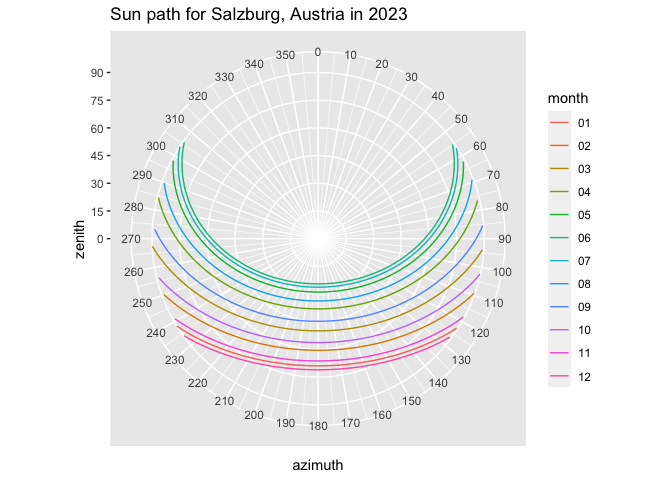
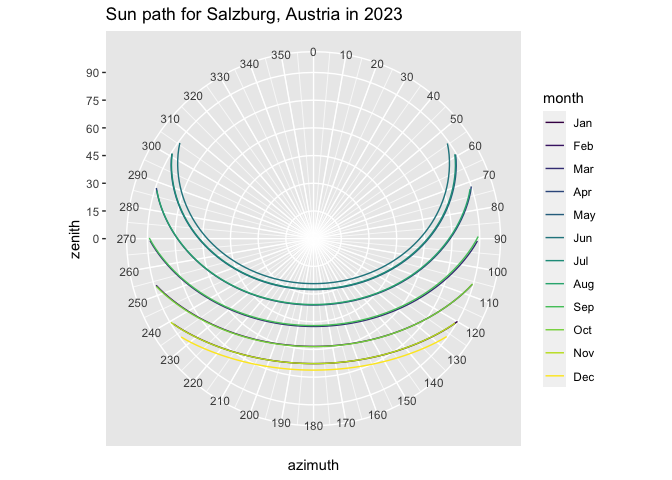
Add basic analemma lines

diff --git a/sunpath.md b/sunpath.md
@@ -1,4 +1,4 @@
-Plotting a sun-path diagram using data from solarpos-cli
+Plotting a sun-path diagram in R using data from solarpos-cli
 ================
 
 First, run [solarpos-cli](https://github.com/KlausBrunner/solarpos-cli)
@@ -17,43 +17,64 @@ column. This will come in handy for the diagram.
 
 ``` r
 library(tidyverse)
+library(lubridate, warn.conflicts = FALSE)
+```
 
+    ## Loading required package: timechange
+
+``` r
 sunpath <- read_csv("/tmp/sunpositions.csv", 
                     col_names=c("daytime", "azimuth", "zenith"), 
                     show_col_types = FALSE) |> 
-  subset(subset = as.Date(daytime) %in% seq(as.Date("2023-01-15"), as.Date("2023-12-15"), "months")) |> 
+  subset(subset = date(daytime) %in% seq(date("2023-01-21"), date("2023-12-21"), "months")) |> 
   filter(zenith <= 90.0) |>
-  mutate(month = format(daytime, "%m"))
+  mutate(month = month(daytime, label=TRUE))
 
 sunpath
 ```
 
     ## # A tibble: 875 × 4
     ##    daytime             azimuth zenith month
-    ##    <dttm>                <dbl>  <dbl> <chr>
-    ##  1 2023-01-15 07:00:00    123.   89.3 01   
-    ##  2 2023-01-15 07:10:00    125.   88.0 01   
-    ##  3 2023-01-15 07:20:00    127.   86.7 01   
-    ##  4 2023-01-15 07:30:00    129.   85.5 01   
-    ##  5 2023-01-15 07:40:00    130.   84.2 01   
-    ##  6 2023-01-15 07:50:00    132.   83.0 01   
-    ##  7 2023-01-15 08:00:00    134.   81.7 01   
-    ##  8 2023-01-15 08:10:00    136.   80.6 01   
-    ##  9 2023-01-15 08:20:00    139.   79.5 01   
-    ## 10 2023-01-15 08:30:00    141.   78.4 01   
+    ##    <dttm>                <dbl>  <dbl> <ord>
+    ##  1 2023-01-21 06:50:00    120.   89.9 Jan  
+    ##  2 2023-01-21 07:00:00    122.   88.7 Jan  
+    ##  3 2023-01-21 07:10:00    124.   87.4 Jan  
+    ##  4 2023-01-21 07:20:00    126.   86.0 Jan  
+    ##  5 2023-01-21 07:30:00    127.   84.7 Jan  
+    ##  6 2023-01-21 07:40:00    129.   83.4 Jan  
+    ##  7 2023-01-21 07:50:00    131.   82.2 Jan  
+    ##  8 2023-01-21 08:00:00    133.   81.0 Jan  
+    ##  9 2023-01-21 08:10:00    135.   79.8 Jan  
+    ## 10 2023-01-21 08:20:00    138.   78.6 Jan  
     ## # … with 865 more rows
 
 Now plot a simple sun path diagram.
 
 ``` r
-spplot <- ggplot(sunpath, aes(x = azimuth, y = zenith, color = month)) + 
-  geom_line() + 
+ggplot() + 
+  geom_line(data = sunpath, aes(x = azimuth, y = zenith, group = month, colour = month)) + 
   scale_y_continuous(limits = c(0, 90), breaks = seq(0, 90, by=15)) + 
   scale_x_continuous(limits = c(0, 360), breaks = seq(0, 359, by=10)) +
   labs(title = "Sun path for Salzburg, Austria in 2023") +
   coord_polar()
-
-spplot
 ```
 
 ![](sunpath_files/figure-gfm/unnamed-chunk-3-1.png)<!-- -->
+
+Let’s see if we can add the analemma lines for each hour as well.
+
+``` r
+hours <- sunpath |>
+  filter(minute(daytime) == 0, second(daytime) == 0) |>
+  mutate(hour = hour(daytime))
+
+ggplot() + 
+  geom_line(data = sunpath, aes(x = azimuth, y = zenith, colour = month)) + 
+  geom_path(data = hours, aes(x = azimuth, y = zenith, group = hour), linetype = "dashed") +
+  scale_y_continuous(limits = c(0, 90), breaks = seq(0, 90, by=15)) + 
+  scale_x_continuous(limits = c(0, 360), breaks = seq(0, 359, by=10)) +
+  labs(title = "Sun path for Salzburg, Austria in 2023") +
+  coord_polar()
+```
+
+![](sunpath_files/figure-gfm/unnamed-chunk-4-1.png)<!-- -->
